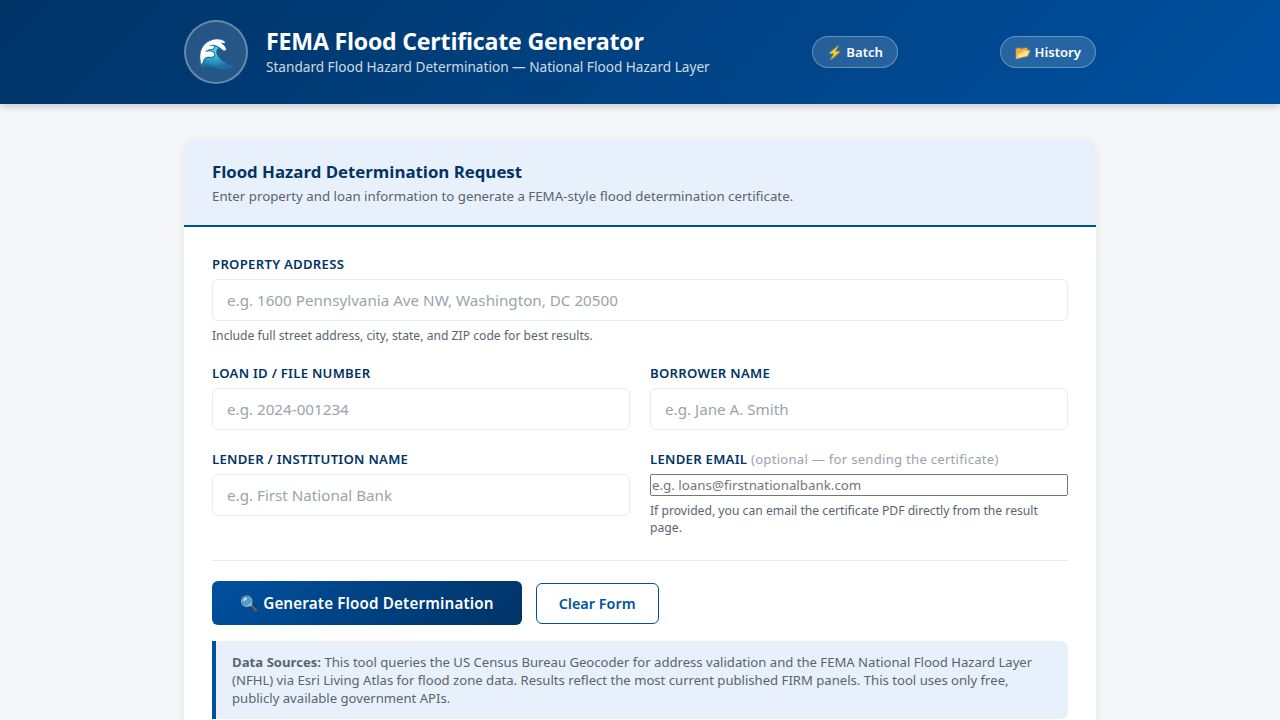
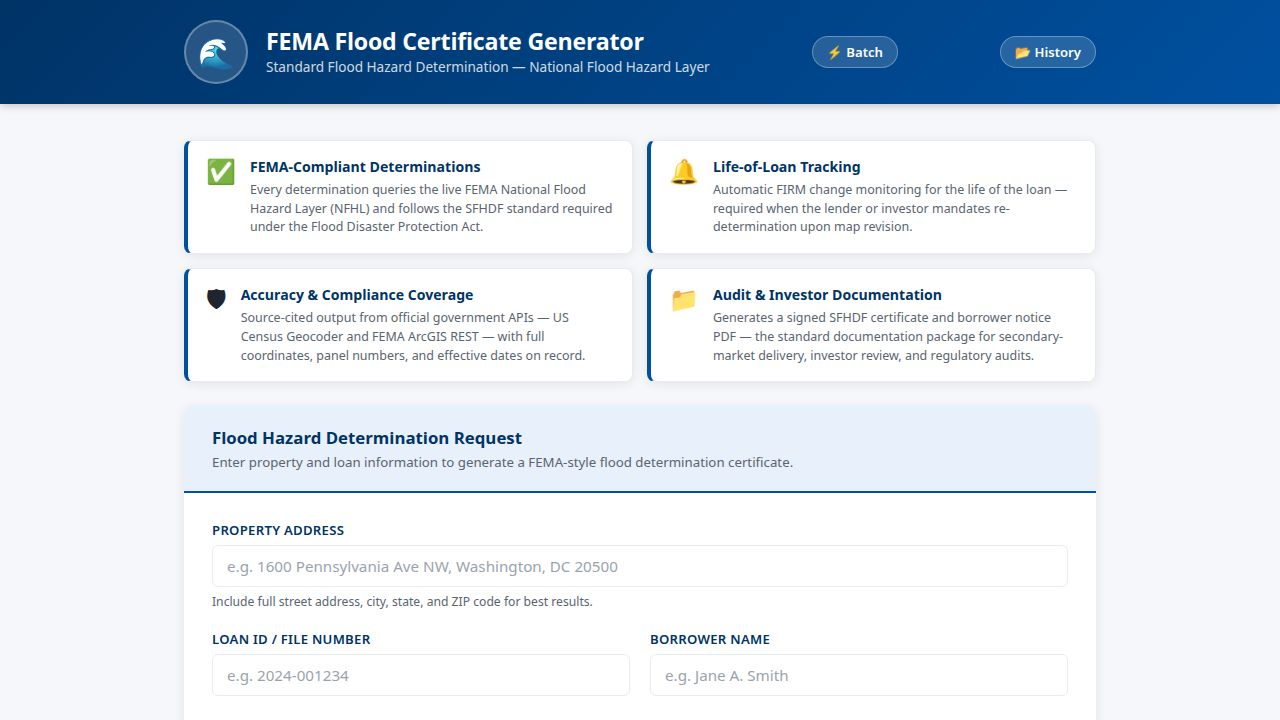
Add comprehensive compliance and documentation features to the website
Introduce a new features strip on the landing page and a compliance summary card on the result page to highlight FEMA compliance, life-of-loan tracking, accuracy, and audit documentation.

Replit-Commit-Author: Agent
Replit-Commit-Session-Id: 19401571-8692-4f43-a471-0110fc3054bd
Replit-Commit-Checkpoint-Type: full_checkpoint
Replit-Commit-Event-Id: fa785bcc-9e35-413c-b296-f302d15db88d
Replit-Commit-Screenshot-Url: https://storage.googleapis.com/screenshot-production-us-central1/81926f9b-f5b1-47a8-a47f-75d4582feb54/19401571-8692-4f43-a471-0110fc3054bd/r3zXZEn
Replit-Helium-Checkpoint-Created: true

Changed region(s): [[0.125, 0.2139, 0.875, 0.7639], [0.1562, 0.7333, 0.8125, 1.0], [0.125, 0.3667, 0.1562, 0.3972]]

diff --git a/artifacts/flood-cert/templates/result.html b/artifacts/flood-cert/templates/result.html
@@ -296,10 +296,46 @@
     </div>
   </div>
 
+  <!-- Compliance summary card -->
+  <div class="compliance-card">
+    <div class="compliance-card-header">Compliance &amp; Documentation Summary</div>
+    <div class="compliance-card-body">
+      <div class="compliance-pillar">
+        <span class="compliance-check">✅</span>
+        <div>
+          <div class="compliance-pillar-title">FEMA-Compliant Determination</div>
+          <div class="compliance-pillar-desc">Flood zone determined from the live FEMA NFHL via ArcGIS REST and mapped to the SFHDF standard — satisfying the Flood Disaster Protection Act of 1973 and the National Flood Insurance Reform Act of 1994.</div>
+        </div>
+      </div>
+      <div class="compliance-pillar">
+        <span class="compliance-check">🔔</span>
+        <div>
+          <div class="compliance-pillar-title">Life-of-Loan Tracking Available</div>
+          <div class="compliance-pillar-desc">Enable the monitoring toggle below to track FIRM panel changes for the life of this loan — satisfying lender and investor requirements for re-determination upon map revision.</div>
+        </div>
+      </div>
+      <div class="compliance-pillar">
+        <span class="compliance-check">🛡</span>
+        <div>
+          <div class="compliance-pillar-title">Source-Cited Accuracy</div>
+          <div class="compliance-pillar-desc">Coordinates, NFIP community number, map panel number, and effective date are recorded verbatim from official government sources: US Census Geocoder + FEMA NFHL Layer 3 &amp; Layer 22.</div>
+        </div>
+      </div>
+      <div class="compliance-pillar">
+        <span class="compliance-check">📁</span>
+        <div>
+          <div class="compliance-pillar-title">Audit &amp; Investor Documentation</div>
+          <div class="compliance-pillar-desc">The SFHDF Certificate PDF and Borrower Notice PDF above are the standard documentation package required for secondary-market delivery (Fannie Mae, Freddie Mac), investor review, and regulatory audit files.</div>
+        </div>
+      </div>
+    </div>
+  </div>
+
   {% if record_id %}
   <div class="lol-card">
     <div class="lol-card-header">
       🔔 Life-of-Loan Monitoring
+      <span class="lol-header-note">Required when lender or investor mandates re-determination on map revision</span>
     </div>
     <div class="lol-card-body">
       <div class="lol-status {{ 'lol-changed' if data.get('needs_redetermination') else ('lol-current' if data.get('last_checked_date') else 'lol-off') }}"

diff --git a/artifacts/flood-cert/static/css/main.css b/artifacts/flood-cert/static/css/main.css
@@ -1316,10 +1316,115 @@ input[type="text"]::placeholder {
   cursor: default;
 }
 
+/* ── Compliance pillars strip (index) ── */
+.pillars-strip {
+  display: grid;
+  grid-template-columns: 1fr 1fr;
+  gap: 14px;
+  margin-bottom: 24px;
+}
+
+.pillar {
+  background: var(--white);
+  border: 1.5px solid var(--gray-200);
+  border-left: 4px solid var(--blue);
+  border-radius: var(--radius);
+  padding: 16px 18px;
+  display: flex;
+  align-items: flex-start;
+  gap: 14px;
+  box-shadow: var(--shadow);
+}
+
+.pillar-icon {
+  font-size: 1.5rem;
+  flex-shrink: 0;
+  line-height: 1;
+  margin-top: 2px;
+}
+
+.pillar-title {
+  font-size: 0.88rem;
+  font-weight: 700;
+  color: var(--navy);
+  margin-bottom: 5px;
+}
+
+.pillar-desc {
+  font-size: 0.78rem;
+  color: var(--gray-600);
+  line-height: 1.5;
+}
+
+/* ── Compliance summary card (result) ── */
+.compliance-card {
+  background: var(--white);
+  border-radius: var(--radius);
+  box-shadow: var(--shadow);
+  overflow: hidden;
+  margin-top: 24px;
+}
+
+.compliance-card-header {
+  background: var(--navy);
+  color: var(--white);
+  font-size: 0.88rem;
+  font-weight: 700;
+  letter-spacing: 0.04em;
+  text-transform: uppercase;
+  padding: 12px 20px;
+}
+
+.compliance-card-body {
+  padding: 8px 0;
+}
+
+.compliance-pillar {
+  display: flex;
+  align-items: flex-start;
+  gap: 16px;
+  padding: 14px 20px;
+  border-bottom: 1px solid var(--gray-200);
+}
+
+.compliance-pillar:last-child {
+  border-bottom: none;
+}
+
+.compliance-check {
+  font-size: 1.25rem;
+  flex-shrink: 0;
+  margin-top: 1px;
+}
+
+.compliance-pillar-title {
+  font-size: 0.88rem;
+  font-weight: 700;
+  color: var(--navy);
+  margin-bottom: 4px;
+}
+
+.compliance-pillar-desc {
+  font-size: 0.8rem;
+  color: var(--gray-600);
+  line-height: 1.55;
+}
+
+/* ── Life-of-loan header note ── */
+.lol-header-note {
+  font-size: 0.75rem;
+  font-weight: 400;
+  color: rgba(255,255,255,0.7);
+  margin-left: 10px;
+  letter-spacing: 0;
+  text-transform: none;
+}
+
 /* ── Responsive ── */
 @media (max-width: 640px) {
   .form-grid { grid-template-columns: 1fr; }
   .detail-grid { grid-template-columns: 1fr; }
+  .pillars-strip { grid-template-columns: 1fr; }
   .header-badge { display: none; }
   .zone-banner { flex-wrap: wrap; }
   .insurance-tag { margin-left: 0; }

diff --git a/artifacts/flood-cert/templates/index.html b/artifacts/flood-cert/templates/index.html
@@ -22,6 +22,38 @@
 
 <main class="main">
 
+  <!-- Compliance pillars strip -->
+  <div class="pillars-strip">
+    <div class="pillar">
+      <div class="pillar-icon">✅</div>
+      <div class="pillar-body">
+        <div class="pillar-title">FEMA-Compliant Determinations</div>
+        <div class="pillar-desc">Every determination queries the live FEMA National Flood Hazard Layer (NFHL) and follows the SFHDF standard required under the Flood Disaster Protection Act.</div>
+      </div>
+    </div>
+    <div class="pillar">
+      <div class="pillar-icon">🔔</div>
+      <div class="pillar-body">
+        <div class="pillar-title">Life-of-Loan Tracking</div>
+        <div class="pillar-desc">Automatic FIRM change monitoring for the life of the loan — required when the lender or investor mandates re-determination upon map revision.</div>
+      </div>
+    </div>
+    <div class="pillar">
+      <div class="pillar-icon">🛡</div>
+      <div class="pillar-body">
+        <div class="pillar-title">Accuracy &amp; Compliance Coverage</div>
+        <div class="pillar-desc">Source-cited output from official government APIs — US Census Geocoder and FEMA ArcGIS REST — with full coordinates, panel numbers, and effective dates on record.</div>
+      </div>
+    </div>
+    <div class="pillar">
+      <div class="pillar-icon">📁</div>
+      <div class="pillar-body">
+        <div class="pillar-title">Audit &amp; Investor Documentation</div>
+        <div class="pillar-desc">Generates a signed SFHDF certificate and borrower notice PDF — the standard documentation package for secondary-market delivery, investor review, and regulatory audits.</div>
+      </div>
+    </div>
+  </div>
+
   {% if errors %}
   <div class="error-box">
     <h3>⚠ Please correct the following errors:</h3>
